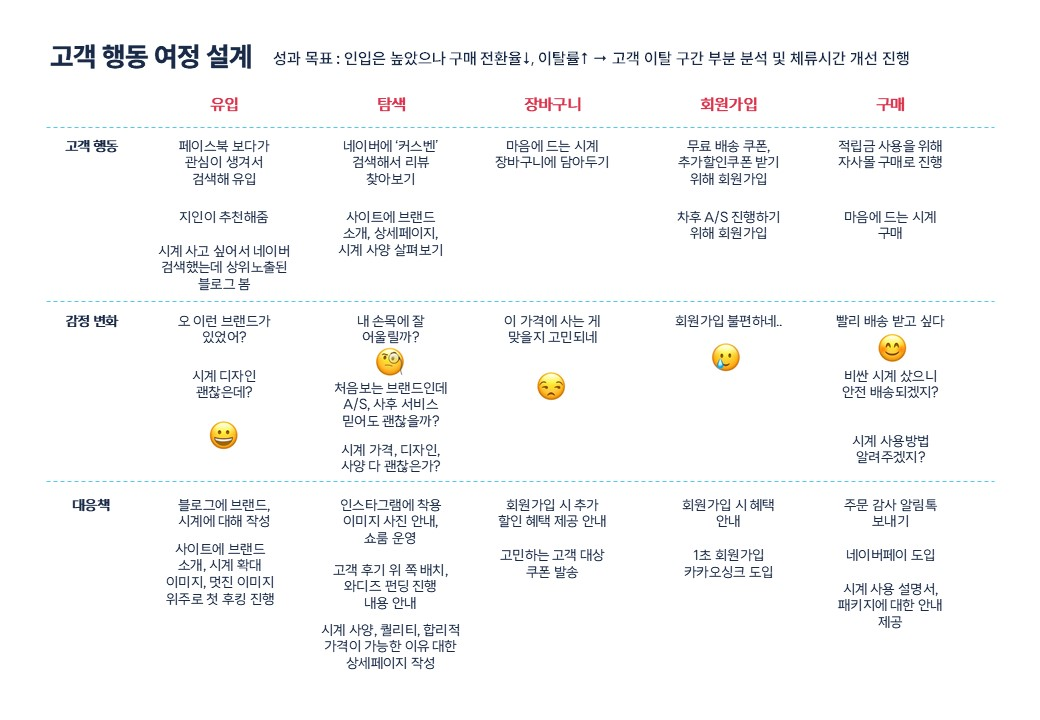
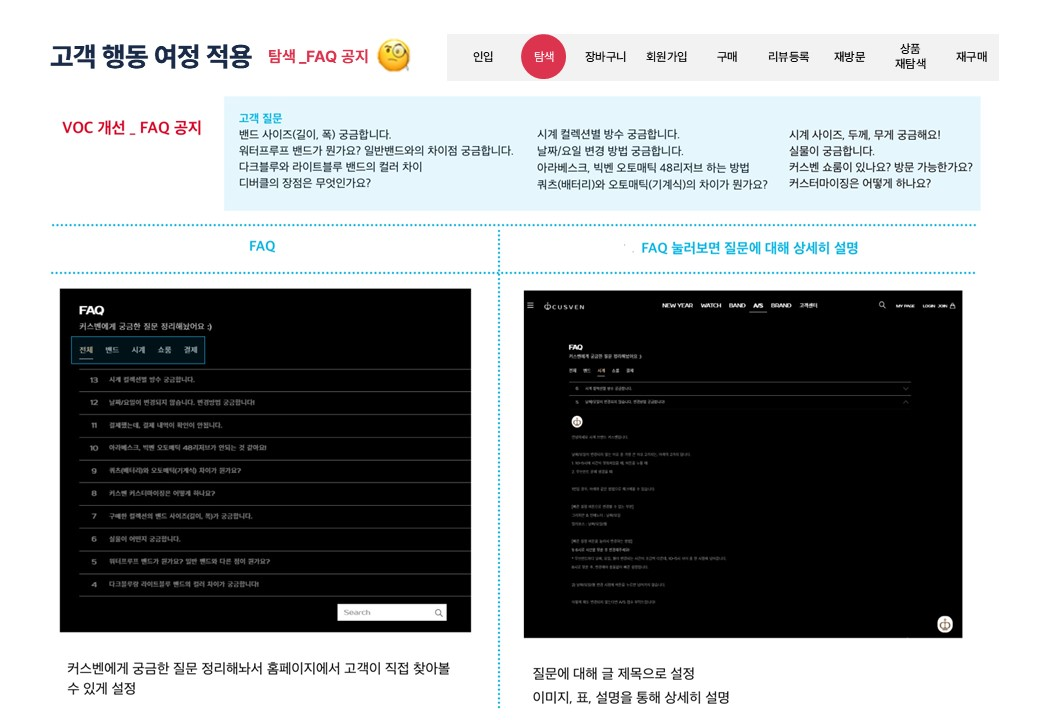
Add files via upload

diff --git a/index.html b/index.html
@@ -1059,7 +1059,19 @@ const defaultImages = {
   "img_slot_18": "images/img_slot_18.jpg",
   "img_slot_19": "images/img_slot_19.jpg",
   "img_slot_20": "images/img_slot_20.png",
-  "img_slot_21": "images/img_slot_21.png"
+  "img_slot_21": "images/img_slot_21.png",
+  "img_slot_7": "images/img_slot_7.png",
+  "img_slot_8": "images/img_slot_8.png",
+  "img_slot_9": "images/img_slot_9.png",
+  "img_slot_13": "images/img_slot_13.jpg",
+  "img_slot_14": "images/img_slot_14.jpg",
+  "img_slot_15": "images/img_slot_15.jpg",
+  "img_slot_22": "images/img_slot_22.png",
+  "img_slot_23": "images/img_slot_23.png",
+  "img_slot_24": "images/img_slot_24.png",
+  "img_slot_25": "images/img_slot_25.png",
+  "img_slot_26": "images/img_slot_26.png",
+  "img_slot_27": "images/img_slot_27.png"
 };
 
 // restore saved images on page load
